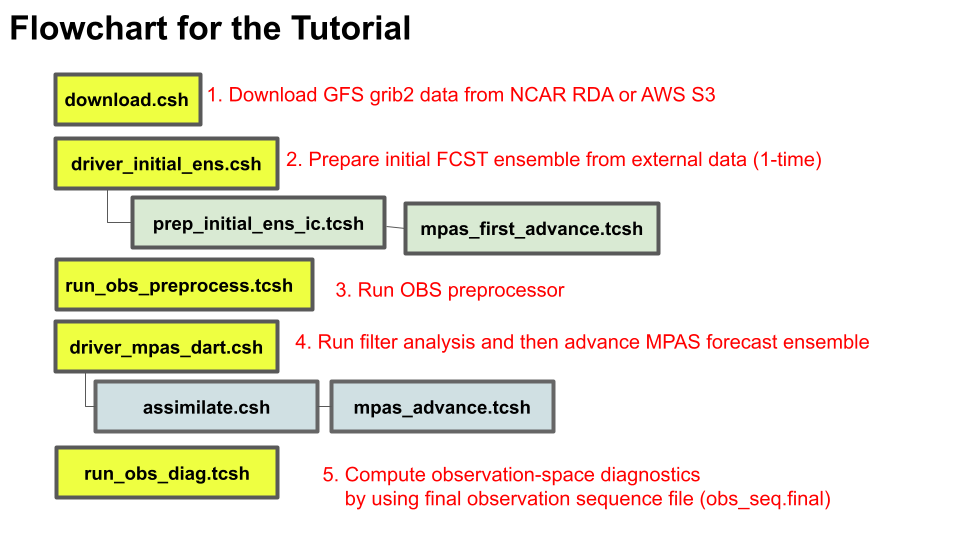
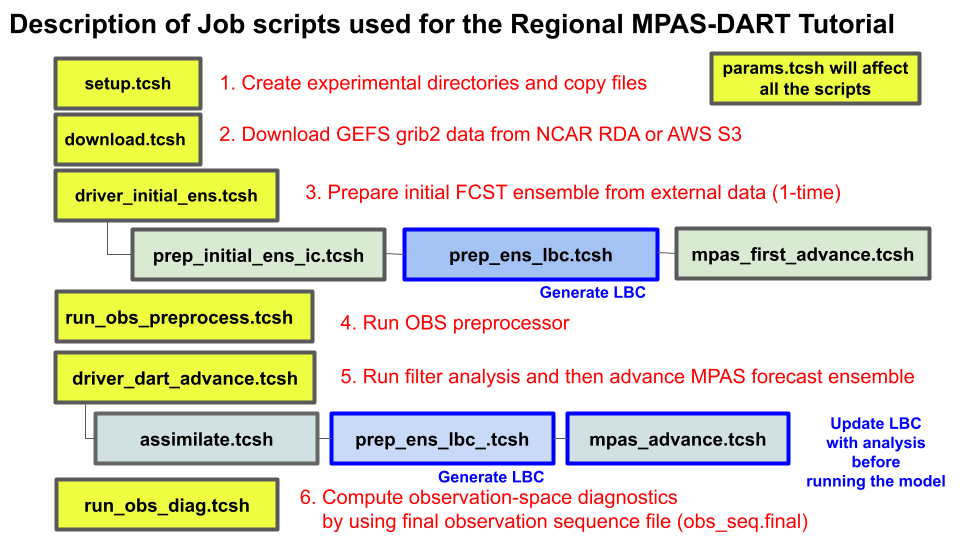
- an update on the flowchart figure on regional application - updated texts up to 4.3. OBS preprocessing section

diff --git a/MPAS_DART_Tutorial_Guide.html b/MPAS_DART_Tutorial_Guide.html
@@ -1113,23 +1113,24 @@ an MPAS/DART cycling experiment.
 
 <!-- ============================================================================== --->
 <div class="subheader" onClick="show('prep_exp')">
-<h3>4.1 Obtaining Test Data and Preparing Experiment</h3>
+<h3>4.1 Obtaining Test Data and Preparing Experiment (Regional) </h3>
 </div>
 
 <div id="prep_exp" class="subsection">
 <p>
-This global MPAS-DART tutorial was tested with a ~240 km global domain (nCells=10,242) using MPAS-A v8.2.0 and DART v11.8.5. The tutorial uses 14-day forecasts with 10 ensemble members for the first cycle, initialized at 00 UTC on Apr 17, 2019. It also includes observation sequence files for 9 days to enable users to conduct cycling experiments.
+This regional MPAS-DART tutorial was tested with a ~60 km regional domain (nCells=9,339) using MPAS-A v8.2.0 and DART v11.8.5. The tutorial uses 1-day forecasts with 10 ensemble members for the first cycle, initialized at 00 UTC on May 03, 2024. It also includes observation sequence files for 3 days to enable users to try cycling experiments.
 
 <p>
-To clone the tutorial scripts from <a href="https://github.com/junpark-mmm/mpas-dart_tutorial_scripts" target="_blank">github.com/junpark-mmm/mpas-dart_tutorial_scripts</a>, use the following command:
+To clone the tutorial scripts for regional MPAS-DART from <a href="https://github.com/junpark-mmm/mpas-dart_tutorial_scripts" target="_blank">github.com/junpark-mmm/mpas-dart_tutorial_scripts</a>, use the following command:
 <p>
 
 <pre class="terminal">
-   git clone https://github.com/junpark-mmm/mpas-dart_tutorial_srcripts.git
+   git clone -b Regional_2025 https://github.com/junpark-mmm/mpas-dart_tutorial_srcripts.git
 </pre>
 
 <p>
-These scripts will be merged into the official DART repository in the future. After the merge, you can obtain and run them directly from the <em class="terminal">DART/models/mpas_atm/shell_scripts</em> directory.
+Although the scripts for regional MPAS-DART are separated at this time, the scripts will be merged in a unified branch to support both global and regional MPAS-DART applications.
+In addition, these scripts will be merged into the official DART repository in the future. After the merge, you can obtain and run them directly from the <em class="terminal">DART/models/mpas_atm/shell_scripts</em> directory.
 <p>
 
 <p>
@@ -1139,7 +1140,7 @@ This includes:
 <ul>
 <li>initial condition files
 <li>10-member intial background MPAS-A forecast ensemble
-<li>observation sequence files for 9 days
+<li>observation sequence files for 3 days
 <li>template and static data
 </ul>
 
@@ -1152,6 +1153,7 @@ First, you need to modify <em class="terminal">params.tcsh</em> to prepare tutor
 
 <p>
 You may search word <b>'Change'</b> in the script and modify them according to your own environment.
+In the case of regional MPAS-DART, you may also consider two-three variables below w.c.t the Global MPAS-DART
 The other parameters are currently tuned for running the tutorial case and you may make changess to suit your needs.
 
 <pre class="terminal">
@@ -1171,12 +1173,17 @@ $ vi params.tcsh
    set MPAS_DIR     = ..../MPAS-Model       # MPAS-A PATH
    set DART_DIR     = ..../DART             # DART PATH
    set WPS_DIR      = ..../WPS              # WPS PATH
+               ....................
+   set USE_REGIONAL = true                  # true: use Regional MPAS-A
+                                            # false: use Global MPAS-A
+   set LBC_VARS     = "lbc_qv, lbc_theta, lbc_rho, lbc_u" #LBC variables to be updated in update_bc
+               ....................
    # ----------------------------------------
 
 </pre>
 
 <p>
-You might need to set the  <em class="terminal">$WPS_DIR</em> environment variable if you plan to run initial MPAS-A ensemble forecasts from an external dataset. This is because  <em class="terminal">ungrib.exe</em> generates intermediate files that are necessary for creating the initial conditions for MPAS-A.
+You need to set the  <em class="terminal">$WPS_DIR</em> environment variable in the case of regional MPAS-DART since it needs to create LBCs from an external dataset. This is because  <em class="terminal">ungrib.exe</em> generates intermediate files that are necessary for creating the initial conditions for MPAS-A.
 
 <p>
 Then, run  <em class="terminal">setup.csh</em>. This will create an experimental directory for the tutorial cases at  <em class="terminal">$BASE_DIR</em>.
@@ -1207,20 +1214,18 @@ EXP_DIR/  # ${BASE_DIR}/${EXPERIMENT_NAME}
 
 <!-- ============================================================================== --->
 <div class="subheader" onClick="show('initial-ens')">
-<h3>4.2 Create Initial Global Ensemble</h3>
+<h3>4.2 Create Initial Regional Ensemble</h3>
 </div>
 
 <div id="initial-ens" class="subsection">
 <p>
 
-This section is about preparing initial global forecast ensemble.
+This section is about preparing the initial regional forecast ensemble.
 <p>
-Users may skip this step for tutorial purposes, since initial condition, and restart files for the first cycle are provided.
-You may delete files at <em class="terminal">init/*</em> and <em class="terminal">output/*</em> if you plan to run initial background ensemble forecast yourself.
-
+Unlike the global MPAS-DART experiment which can be initialized with a single external data with GFS (after adding perturbations), regional MPAS-DART experiment needs to be provided with a set of external data because of lateral boundary condition.
 <p>
 First, let's move to <em class="terminal">scripts/</em> and run <em class="terminal">download.tcsh</em> to obtain external grib2 at <b>${EXTM_DIR}</b>.
-This tutorial will download GFS data at 00 UTC on Apr 17, 2019. This 'download.tcsh' is designed to download GFS or GEFS data from AWS S3 or NCAR RDA.</br>
+This tutorial will download GEFS analysis data starting from May 03 to May 07, 2024. This 'download.tcsh' is designed to download GFS or GEFS data from AWS S3 or NCAR RDA.</br>
 
 <p>
 It requires 3 arguments:
@@ -1231,34 +1236,43 @@ It requires 3 arguments:
 </ul>
 
 <p> 
-To download GFS data at 00 UTC on Apr 17, 2019, use the below command: 
+To download GEFS analysis time data from 00 UTC on May 03, 2019 for 4 days, use the below command: 
 <pre class="terminal">
-./download.tcsh 2019041700 2019041700 params.tcsh
+./download.tcsh 2024050300 2024050700 params.tcsh
 </pre>
 
 <p>
-After execution, you can see the downloaded files at <em class="terminal">${BASE_DIR}/extm/2019041700*</em>
-(* AWS S3 and NCAR RDA may have different naming convention for this GFS grib2 files)
+This will download GEFS data for this period with 6-hour intervals. The number of ensemble will depends on <em class="terminal">$ENS_SIZE</em> at <em class="terminal">params.tcsh</em>.
+Please note that GEFS ensemble at AWS S3 consists of 30 members.
+
+After execution, you can see the downloaded files at <em class="terminal">${BASE_DIR}/extm/</em>
 
 <pre class="terminal">
-$ls -1 extm/2019041700/*
-extm/2019041700/gfs.0p25.2019041700.f000.grib2
-extm/2019041700/ready.txt
+$ls -1 extm/*/2024050300/gep*
+extm/01/2024050300/gep01.t00z.pgrb2.0p50.f000
+extm/02/2024050300/gep02.t00z.pgrb2.0p50.f000
+extm/03/2024050300/gep03.t00z.pgrb2.0p50.f000
+extm/04/2024050300/gep04.t00z.pgrb2.0p50.f000
+extm/05/2024050300/gep05.t00z.pgrb2.0p50.f000
+extm/06/2024050300/gep06.t00z.pgrb2.0p50.f000
+extm/07/2024050300/gep07.t00z.pgrb2.0p50.f000
+extm/08/2024050300/gep08.t00z.pgrb2.0p50.f000
+extm/09/2024050300/gep09.t00z.pgrb2.0p50.f000
+extm/10/2024050300/gep10.t00z.pgrb2.0p50.f000
 </pre>
+<p>
+This means that you have 10 members of GEFS ensemble valid at 00 UTC on May 3, 2024.
 
 <p>
-If you download GEFS ensemble GRIB2 data, the number of doownload ensemble file names will also depend on the <em class="terminal">${ENS_SIZE}</em> variable set in <em class="terminal">params.tcsh</em>.
-
-<p>
-After obtaining the external model data to drive MPAS-A, you can use <em class="terminal">driver_initial_ens.tcsh</em> to create the initial conditions and advance the forecasts. This script will create initial condition files at <em class="terminal">init/</em> and restart files at <em class="terminal">output/</em>. This script will run two main job scripts in sequence. Before doing so, it will either link or copy the required files (executable, namelist template, static files, and others) to <em class="terminal">${RUN_DIR}</em>.
+After obtaining the external model data to drive MPAS-A, you can use <em class="terminal">driver_initial_ens.tcsh</em> to create the initial/lateral boundary conditions and advance the forecasts. This script will create initial condition files at <em class="terminal">${INIT_DIR}/</em> and restart files at <em class="terminal">${OUTPUT_DIR}/</em>. This script will run three main job scripts in sequence in the case of regional MPAS-DART as we have seen the flowchart earlier. Before doing so, it will either link or copy the required files (executable, namelist template, static files, and others) to <em class="terminal">${RUN_DIR}</em>.
 
 <ol>
 <li><b>prep_initial_ens.tcsh</b>: create initial condition for MPAS-A from external data
 <ul>
-<li> if 'GFS' is employed, run 'init_atmosphere_model' to create IC and then run 'filter' to add perturbations
-<li> 'GFSENS (GEFS)' is employed, run 'init_atmosphere_model' for every member after that, they will be copied to  <em class="terminal">init/</em>
+<li> If 'GFSENS (GEFS)' is employed, run 'init_atmosphere_model' for every member after that, they will be copied to  <em class="terminal">${INIT_DIR}/</em>
 </ul>
-<li><b>mpas_first_advance.tcsh</b>: run MPAS-A to generate intial BKG ensemble forecasts by using IC files at init/; after completion, the files are stored at output/
+<li><b>prep_ens_lbc.tcsh</b>: create lateral boundary condition for MPAS-A from external data; after completion, the LBC files are stored at <em class="terminal">${INIT_DIR}/</em>
+<li><b>mpas_first_advance.tcsh</b>: run MPAS-A to generate intial BKG ensemble forecasts by using IC files at <em class="terminal">${INIT_DIR}/</em>; after completion, the files are stored at <em class="terminal">${OUTPUT_DIR}/</em>
 </ol>
 
 <p>
@@ -1270,15 +1284,15 @@ This  <em class="terminal">driver_initial_ens.tcsh</em> script requires 3 argume
 </ul>
 
 <p>
-To create 336-hour forecasts from 00 UTC on Apr 17, 2019, run the following command: 
+To create 24-hour forecasts from 00 UTC on May 3, 2024, run the following command: 
 <pre class="terminal">
-./driver_initial_ens.tcsh 2019041700 336 params.tcsh
+./driver_initial_ens.tcsh 2024050300 24 params.tcsh
 </pre>
 
 <p>
-After the jobs are complete, you should see the following files in the <em class="terminal">init/</em> and <em class="terminal">output/</em> directories
+After the jobs are complete, you should see the following files in the <em class="terminal">${INIT_DIR}/</em> and <em class="terminal">${OUTPUT_DIR}/</em> directories
 <pre class="terminal">
-$ ls -1 init/2019041700/*/*.nc # initial condition at ${INIT_DIR}
+$ ls -1 init/2024050300/*/*.nc # initial condition at ${INIT_DIR}
 init/2019041700/member00/x1.10242.init.nc
 init/2019041700/member01/x1.10242.init.nc
 init/2019041700/member02/x1.10242.init.nc
@@ -1291,7 +1305,7 @@ init/2019041700/member08/x1.10242.init.nc
 init/2019041700/member09/x1.10242.init.nc
 init/2019041700/member10/x1.10242.init.nc
 
-$ ls -1 output/2019050100/*/restart*.nc     # if ${USE_RESTART} = true at 'params.tcsh'
+$ ls -1 output/2024050400/*/restart*.nc     # if ${USE_RESTART} = true at 'params.tcsh'
 output/2019050100/member01/restart.2019-05-01_00.00.00.nc
 output/2019050100/member02/restart.2019-05-01_00.00.00.nc
 output/2019050100/member03/restart.2019-05-01_00.00.00.nc
